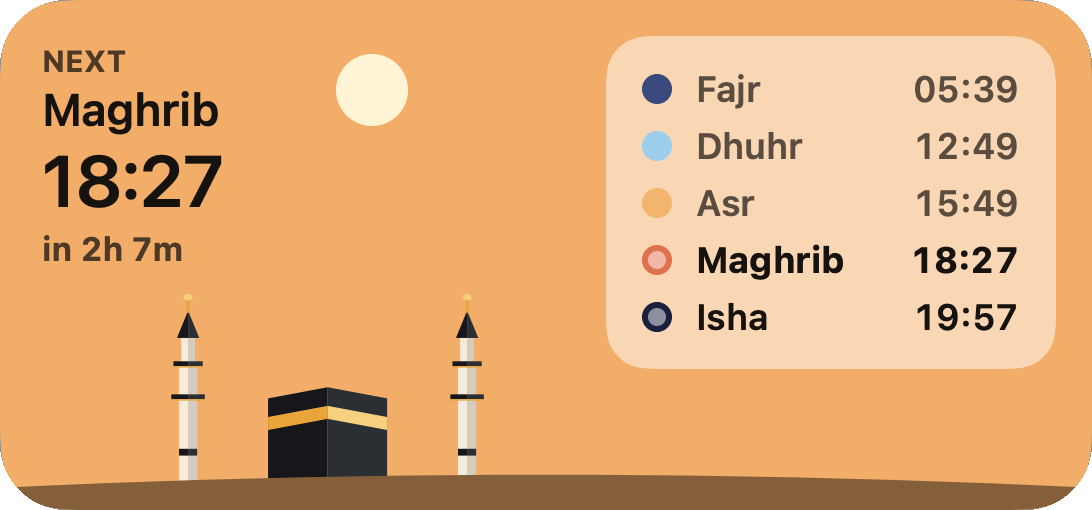
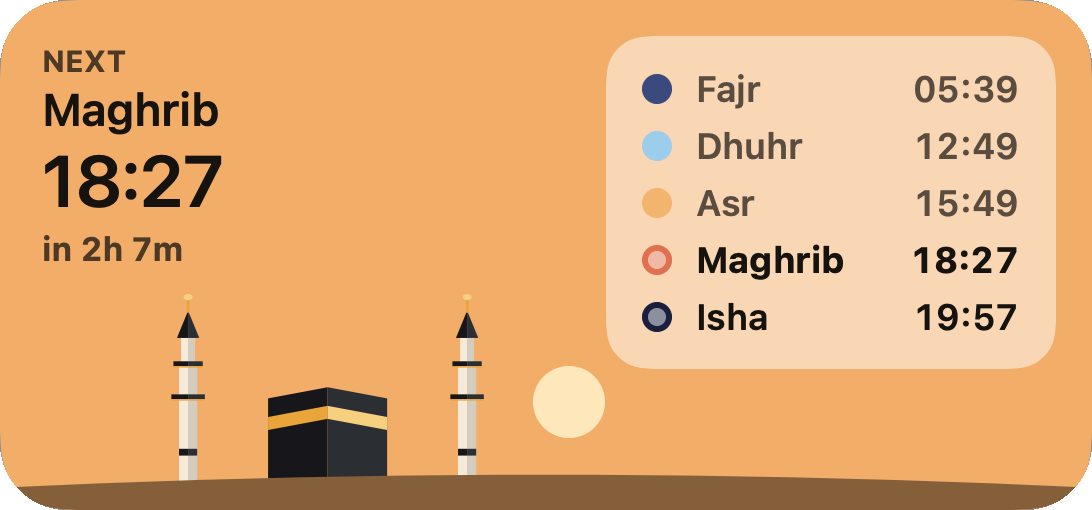
Fresh screenshots and widget images from build 9
Three tabs, the sun setting at Maghrib and the moon crossing the night.

Changed region(s): [[0.467, 0.7059, 0.5604, 0.8824], [0.3114, 0.0882, 0.3736, 0.2647]]

diff --git a/index.html b/index.html
@@ -51,9 +51,9 @@
       <h2>A sky that follows your day</h2>
       <p class="section-intro">Tahir's sky moves with the sun: indigo at Fajr, bright blue at Dhuhr, gold at Asr, red at Maghrib and starry after Isha. One glance tells you where you are in the day and how long until the next prayer.</p>
       <div class="shots">
-        <figure><div class="phone"><img src="assets/img/asr.jpg" width="720" height="1564" alt="Tahir at Asr: an amber sky over two minarets and the Kaabah, with Maghrib in 2 hours 7 minutes and today's prayers below, three of five ticked off."></div><figcaption>Asr</figcaption></figure>
-        <figure><div class="phone"><img src="assets/img/maghrib.jpg" width="720" height="1564" alt="Tahir at Maghrib: a red evening sky with the sun setting beside the minarets, and Isha in 1 hour 22 minutes."></div><figcaption>Maghrib</figcaption></figure>
-        <figure><div class="phone"><img src="assets/img/night.jpg" width="720" height="1564" alt="Tahir after Isha: a starry navy sky with the moon, and a Tahajjud card showing the last third of the night begins at 01:55."></div><figcaption>After Isha</figcaption></figure>
+        <figure><div class="phone"><img src="assets/img/asr.jpg" width="720" height="1564" alt="Tahir at Asr: an amber sky over two minarets and the Kaabah, with Maghrib in 2 hours 5 minutes and today's prayers below, three of five ticked off."></div><figcaption>Asr</figcaption></figure>
+        <figure><div class="phone"><img src="assets/img/maghrib.jpg" width="720" height="1564" alt="Tahir at Maghrib: a dusk sky with the moon rising beside the minarets, and Isha in 1 hour."></div><figcaption>Maghrib</figcaption></figure>
+        <figure><div class="phone"><img src="assets/img/night.jpg" width="720" height="1564" alt="Tahir after Isha: a starry navy sky with the moon between the minarets, and a Tahajjud card showing the last third of the night begins at 01:55."></div><figcaption>After Isha</figcaption></figure>
       </div>
     </div>
   </section>
